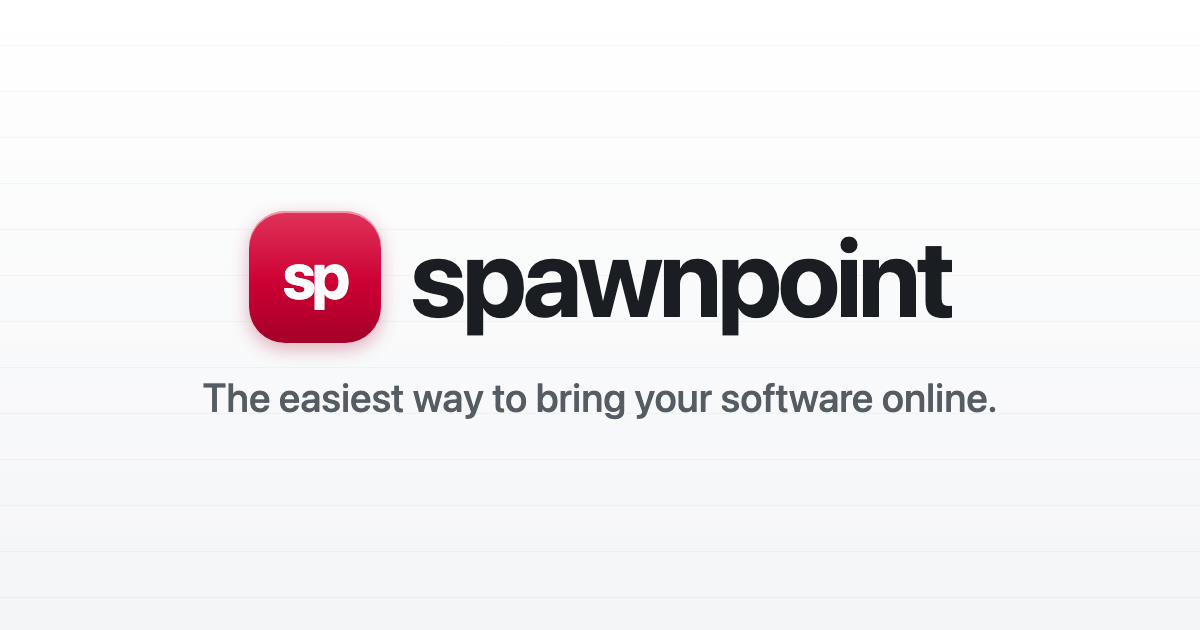
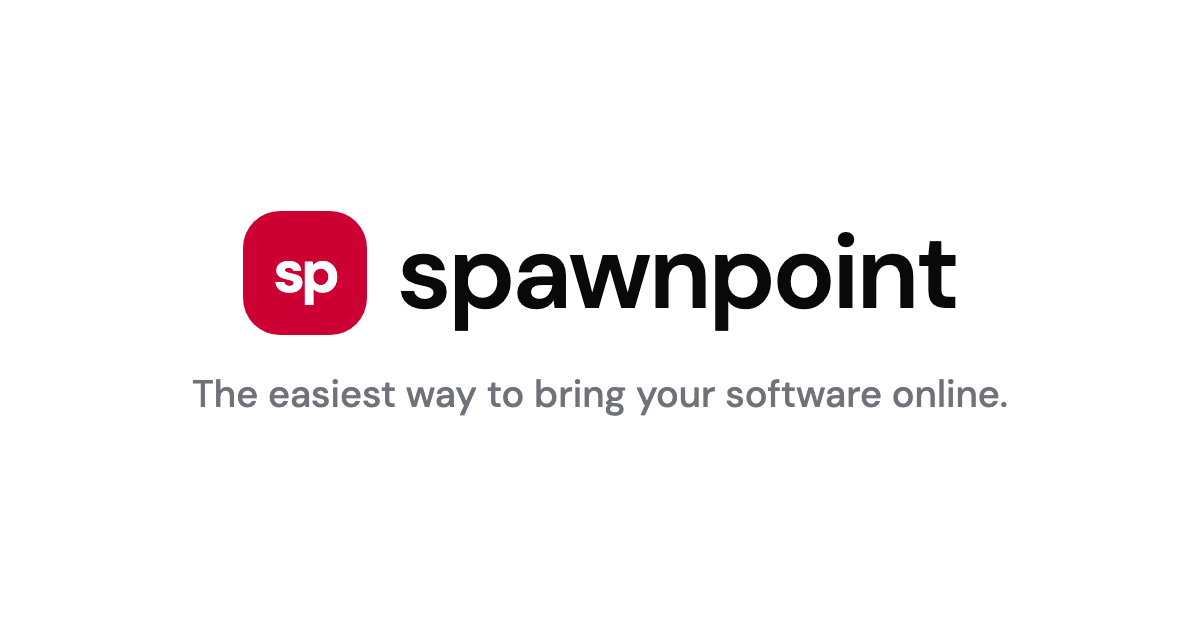
fix(og): flat social card, same mark as the site
The social card still carried the old glossy mark: a red gradient, an
inset highlight, and a drop shadow, on a ruled beige-tinted canvas.
The site moved to a flat solid mark and a plain white canvas in
August, so every link unfurl was showing a brand the page itself no
longer used. Re-rendered from the same tokens, and the cache-buster
bumped so scrapers fetch it again.

Changed region(s): [[0.185, 0.3317, 0.8017, 0.573], [0.1542, 0.6032, 0.8325, 0.6635]]

diff --git a/og-image.html b/og-image.html
@@ -3,26 +3,23 @@
 <html lang="en">
 <head>
 <meta charset="utf-8" />
-<link href="https://fonts.googleapis.com/css2?family=DM+Sans:wght@400;500;700&display=swap" rel="stylesheet" />
+<link href="https://fonts.googleapis.com/css2?family=DM+Sans:wght@400;500;600;700&display=swap" rel="stylesheet" />
 <style>
+  /* Same tokens as styles.css: flat brand mark, no gradient, no shadow. */
   html, body { margin: 0; }
   .card {
     width: 1200px; height: 630px; box-sizing: border-box;
-    font-family: "DM Sans", system-ui, sans-serif; color: #1a1d21;
-    display: flex; flex-direction: column; align-items: center; justify-content: center; gap: 30px;
-    background:
-      repeating-linear-gradient(180deg, transparent 0, transparent 45px, rgba(120,92,58,.05) 45px, rgba(120,92,58,.05) 46px),
-      linear-gradient(180deg, #ffffff, #f4f5f7);
-    position: relative;
+    font-family: "DM Sans", ui-sans-serif, system-ui, sans-serif; color: #09090b;
+    display: flex; flex-direction: column; align-items: center; justify-content: center; gap: 34px;
+    background: #ffffff;
   }
   .lockup { display: flex; align-items: center; gap: 30px; }
-  .mark { width: 132px; height: 132px; border-radius: 36px; display: grid; place-items: center;
-    color: #fff; font-weight: 700; font-size: 64px; letter-spacing: -.06em; line-height: 1;
-    background-image: linear-gradient(180deg, #e0335a, #cc0033 55%, #a4002a);
-    box-shadow: inset 0 2px 0 rgba(255,255,255,.5), 0 6px 18px rgba(164,0,42,.3); }
+  .mark { width: 124px; height: 124px; border-radius: 37px; display: grid; place-items: center;
+    color: #fff; font-weight: 700; font-size: 59px; letter-spacing: -.06em; line-height: 1;
+    background: #cc0033; }
   .mark span { transform: translateY(-.03em); }
-  .word { font-size: 108px; font-weight: 700; letter-spacing: -.035em; line-height: 1; }
-  .tag { font-size: 40px; font-weight: 500; color: #555c64; }
+  .word { font-size: 104px; font-weight: 600; letter-spacing: -.03em; line-height: 1; }
+  .tag { font-size: 38px; font-weight: 500; color: #71717a; }
 </style>
 </head>
 <body>

diff --git a/agents.html b/agents.html
@@ -19,14 +19,14 @@
     <meta property="og:title" content="Supported agents · spawnpoint docs" />
     <meta property="og:description" content="Every coding agent spawnpoint supports and how each one connects: Claude Code, Codex CLI, Cursor, opencode, GitHub Copilot CLI, VS Code Copilot, jcode, and any other MCP client." />
     <meta property="og:url" content="https://getspawnpoint.com/agents.html" />
-    <meta property="og:image" content="https://getspawnpoint.com/og.png?v=2" />
+    <meta property="og:image" content="https://getspawnpoint.com/og.png?v=3" />
     <meta property="og:image:width" content="1200" />
     <meta property="og:image:height" content="630" />
     <meta property="og:image:alt" content="spawnpoint: the easiest way to bring your software online" />
     <meta name="twitter:card" content="summary_large_image" />
     <meta name="twitter:title" content="Supported agents · spawnpoint docs" />
     <meta name="twitter:description" content="Every coding agent spawnpoint supports and how each one connects: Claude Code, Codex CLI, Cursor, opencode, GitHub Copilot CLI, VS Code Copilot, jcode, and any other MCP client." />
-    <meta name="twitter:image" content="https://getspawnpoint.com/og.png?v=2" />
+    <meta name="twitter:image" content="https://getspawnpoint.com/og.png?v=3" />
     <meta name="theme-color" content="#cc0033" />
   </head>
   <body>

diff --git a/getting-started.html b/getting-started.html
@@ -19,14 +19,14 @@
     <meta property="og:title" content="Getting started · spawnpoint docs" />
     <meta property="og:description" content="Go from prompt to public link: run one command, sign in once in the browser, then tell your agent to deploy. Claude Code, Codex, Cursor, and Copilot." />
     <meta property="og:url" content="https://getspawnpoint.com/getting-started.html" />
-    <meta property="og:image" content="https://getspawnpoint.com/og.png?v=2" />
+    <meta property="og:image" content="https://getspawnpoint.com/og.png?v=3" />
     <meta property="og:image:width" content="1200" />
     <meta property="og:image:height" content="630" />
     <meta property="og:image:alt" content="spawnpoint: the easiest way to bring your software online" />
     <meta name="twitter:card" content="summary_large_image" />
     <meta name="twitter:title" content="Getting started · spawnpoint docs" />
     <meta name="twitter:description" content="Go from prompt to public link: run one command, sign in once in the browser, then tell your agent to deploy. Claude Code, Codex, Cursor, and Copilot." />
-    <meta name="twitter:image" content="https://getspawnpoint.com/og.png?v=2" />
+    <meta name="twitter:image" content="https://getspawnpoint.com/og.png?v=3" />
     <meta name="theme-color" content="#cc0033" />
   </head>
   <body>

diff --git a/api-tokens.html b/api-tokens.html
@@ -19,14 +19,14 @@
     <meta property="og:title" content="API tokens · spawnpoint docs" />
     <meta property="og:description" content="Optional long-lived API tokens for scripts and clients that cannot sign in through a browser. Most agents connect to spawnpoint over OAuth instead." />
     <meta property="og:url" content="https://getspawnpoint.com/api-tokens.html" />
-    <meta property="og:image" content="https://getspawnpoint.com/og.png?v=2" />
+    <meta property="og:image" content="https://getspawnpoint.com/og.png?v=3" />
     <meta property="og:image:width" content="1200" />
     <meta property="og:image:height" content="630" />
     <meta property="og:image:alt" content="spawnpoint: the easiest way to bring your software online" />
     <meta name="twitter:card" content="summary_large_image" />
     <meta name="twitter:title" content="API tokens · spawnpoint docs" />
     <meta name="twitter:description" content="Optional long-lived API tokens for scripts and clients that cannot sign in through a browser. Most agents connect to spawnpoint over OAuth instead." />
-    <meta name="twitter:image" content="https://getspawnpoint.com/og.png?v=2" />
+    <meta name="twitter:image" content="https://getspawnpoint.com/og.png?v=3" />
     <meta name="theme-color" content="#cc0033" />
   </head>
   <body>

diff --git a/mcp.html b/mcp.html
@@ -19,14 +19,14 @@
     <meta property="og:title" content="MCP server · spawnpoint docs" />
     <meta property="og:description" content="spawnpoint's MCP server: a Streamable HTTP endpoint your coding agent uses to deploy apps, read logs, share projects, and tear them down." />
     <meta property="og:url" content="https://getspawnpoint.com/mcp.html" />
-    <meta property="og:image" content="https://getspawnpoint.com/og.png?v=2" />
+    <meta property="og:image" content="https://getspawnpoint.com/og.png?v=3" />
     <meta property="og:image:width" content="1200" />
     <meta property="og:image:height" content="630" />
     <meta property="og:image:alt" content="spawnpoint: the easiest way to bring your software online" />
     <meta name="twitter:card" content="summary_large_image" />
     <meta name="twitter:title" content="MCP server · spawnpoint docs" />
     <meta name="twitter:description" content="spawnpoint's MCP server: a Streamable HTTP endpoint your coding agent uses to deploy apps, read logs, share projects, and tear them down." />
-    <meta name="twitter:image" content="https://getspawnpoint.com/og.png?v=2" />
+    <meta name="twitter:image" content="https://getspawnpoint.com/og.png?v=3" />
     <meta name="theme-color" content="#cc0033" />
   </head>
   <body>

diff --git a/index.html b/index.html
@@ -28,7 +28,7 @@
       content="Deploy the apps your AI agent builds and share them like a Google Doc: private by default, no account needed for the person you send it to. Works with Claude Code, Codex, Cursor, Copilot, and many more."
     />
     <meta property="og:url" content="https://getspawnpoint.com/" />
-    <meta property="og:image" content="https://getspawnpoint.com/og.png?v=2" />
+    <meta property="og:image" content="https://getspawnpoint.com/og.png?v=3" />
     <meta property="og:image:width" content="1200" />
     <meta property="og:image:height" content="630" />
     <meta property="og:image:alt" content="spawnpoint: the easiest way to bring your software online" />
@@ -38,7 +38,7 @@
       name="twitter:description"
       content="Deploy the apps your AI agent builds and share them like a Google Doc: private by default, no account needed for the person you send it to. Works with Claude Code, Codex, Cursor, Copilot, and many more."
     />
-    <meta name="twitter:image" content="https://getspawnpoint.com/og.png?v=2" />
+    <meta name="twitter:image" content="https://getspawnpoint.com/og.png?v=3" />
     <meta name="theme-color" content="#cc0033" />
     <script type="application/ld+json">
 {

diff --git a/terms.html b/terms.html
@@ -19,14 +19,14 @@
     <meta property="og:title" content="Terms of Service · spawnpoint" />
     <meta property="og:description" content="The terms that govern your use of spawnpoint, the service that deploys the apps your agent builds." />
     <meta property="og:url" content="https://getspawnpoint.com/terms.html" />
-    <meta property="og:image" content="https://getspawnpoint.com/og.png?v=2" />
+    <meta property="og:image" content="https://getspawnpoint.com/og.png?v=3" />
     <meta property="og:image:width" content="1200" />
     <meta property="og:image:height" content="630" />
     <meta property="og:image:alt" content="spawnpoint: the easiest way to bring your software online" />
     <meta name="twitter:card" content="summary_large_image" />
     <meta name="twitter:title" content="Terms of Service · spawnpoint" />
     <meta name="twitter:description" content="The terms that govern your use of spawnpoint, the service that deploys the apps your agent builds." />
-    <meta name="twitter:image" content="https://getspawnpoint.com/og.png?v=2" />
+    <meta name="twitter:image" content="https://getspawnpoint.com/og.png?v=3" />
     <meta name="theme-color" content="#cc0033" />
   </head>
   <body>

diff --git a/blog/index.html b/blog/index.html
@@ -19,14 +19,14 @@
     <meta property="og:title" content="Blog · spawnpoint" />
     <meta property="og:description" content="Notes from spawnpoint on small software: what it is, how it runs, and what we learn running it." />
     <meta property="og:url" content="https://getspawnpoint.com/blog/" />
-    <meta property="og:image" content="https://getspawnpoint.com/og.png?v=2" />
+    <meta property="og:image" content="https://getspawnpoint.com/og.png?v=3" />
     <meta property="og:image:width" content="1200" />
     <meta property="og:image:height" content="630" />
     <meta property="og:image:alt" content="spawnpoint: the easiest way to bring your software online" />
     <meta name="twitter:card" content="summary_large_image" />
     <meta name="twitter:title" content="Blog · spawnpoint" />
     <meta name="twitter:description" content="Notes from spawnpoint on small software: what it is, how it runs, and what we learn running it." />
-    <meta name="twitter:image" content="https://getspawnpoint.com/og.png?v=2" />
+    <meta name="twitter:image" content="https://getspawnpoint.com/og.png?v=3" />
     <meta name="theme-color" content="#cc0033" />
   </head>
   <body>

diff --git a/privacy.html b/privacy.html
@@ -19,14 +19,14 @@
     <meta property="og:title" content="Privacy Policy · spawnpoint" />
     <meta property="og:description" content="What spawnpoint collects, why, who it goes to, and how long it is kept." />
     <meta property="og:url" content="https://getspawnpoint.com/privacy.html" />
-    <meta property="og:image" content="https://getspawnpoint.com/og.png?v=2" />
+    <meta property="og:image" content="https://getspawnpoint.com/og.png?v=3" />
     <meta property="og:image:width" content="1200" />
     <meta property="og:image:height" content="630" />
     <meta property="og:image:alt" content="spawnpoint: the easiest way to bring your software online" />
     <meta name="twitter:card" content="summary_large_image" />
     <meta name="twitter:title" content="Privacy Policy · spawnpoint" />
     <meta name="twitter:description" content="What spawnpoint collects, why, who it goes to, and how long it is kept." />
-    <meta name="twitter:image" content="https://getspawnpoint.com/og.png?v=2" />
+    <meta name="twitter:image" content="https://getspawnpoint.com/og.png?v=3" />
     <meta name="theme-color" content="#cc0033" />
   </head>
   <body>

diff --git a/security.html b/security.html
@@ -19,14 +19,14 @@
     <meta property="og:title" content="Security · spawnpoint" />
     <meta property="og:description" content="How spawnpoint protects your account, your tokens, and the code you deploy." />
     <meta property="og:url" content="https://getspawnpoint.com/security.html" />
-    <meta property="og:image" content="https://getspawnpoint.com/og.png?v=2" />
+    <meta property="og:image" content="https://getspawnpoint.com/og.png?v=3" />
     <meta property="og:image:width" content="1200" />
     <meta property="og:image:height" content="630" />
     <meta property="og:image:alt" content="spawnpoint: the easiest way to bring your software online" />
     <meta name="twitter:card" content="summary_large_image" />
     <meta name="twitter:title" content="Security · spawnpoint" />
     <meta name="twitter:description" content="How spawnpoint protects your account, your tokens, and the code you deploy." />
-    <meta name="twitter:image" content="https://getspawnpoint.com/og.png?v=2" />
+    <meta name="twitter:image" content="https://getspawnpoint.com/og.png?v=3" />
     <meta name="theme-color" content="#cc0033" />
   </head>
   <body>
